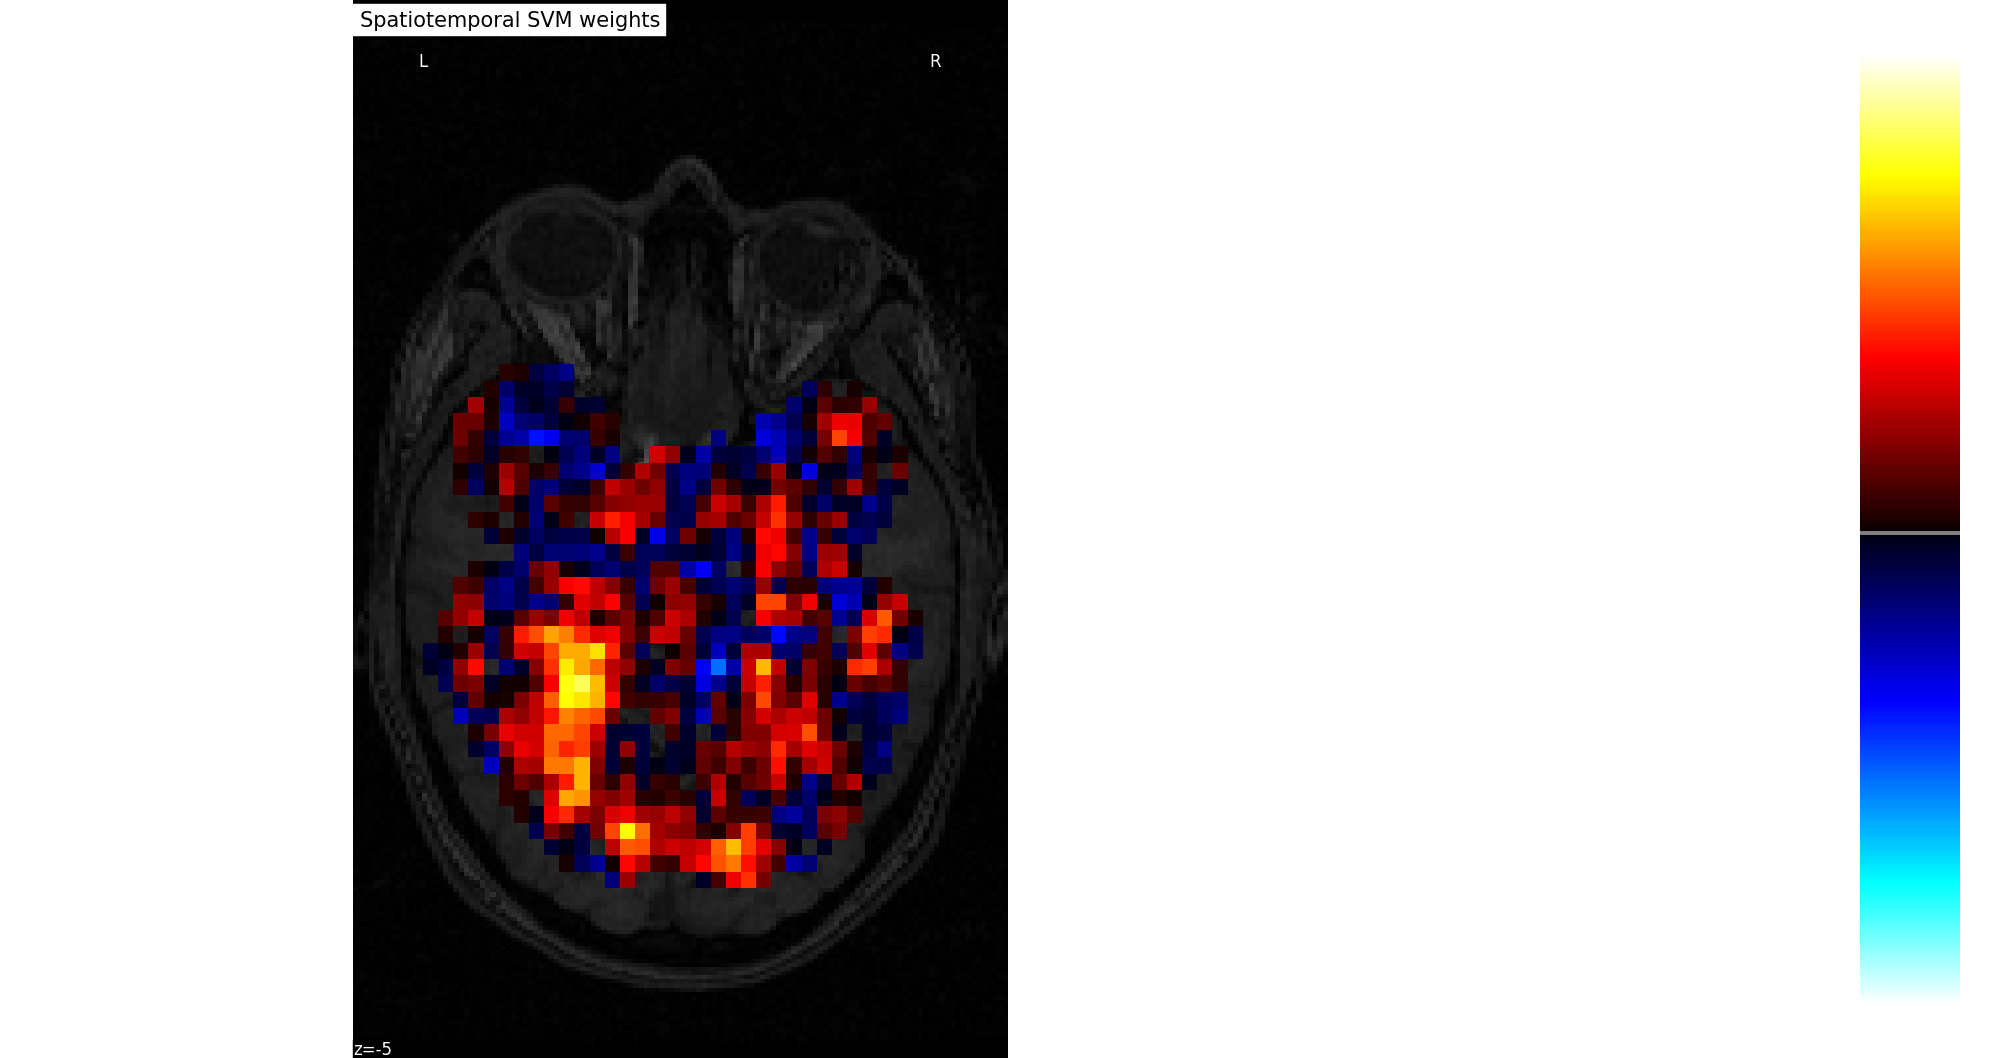
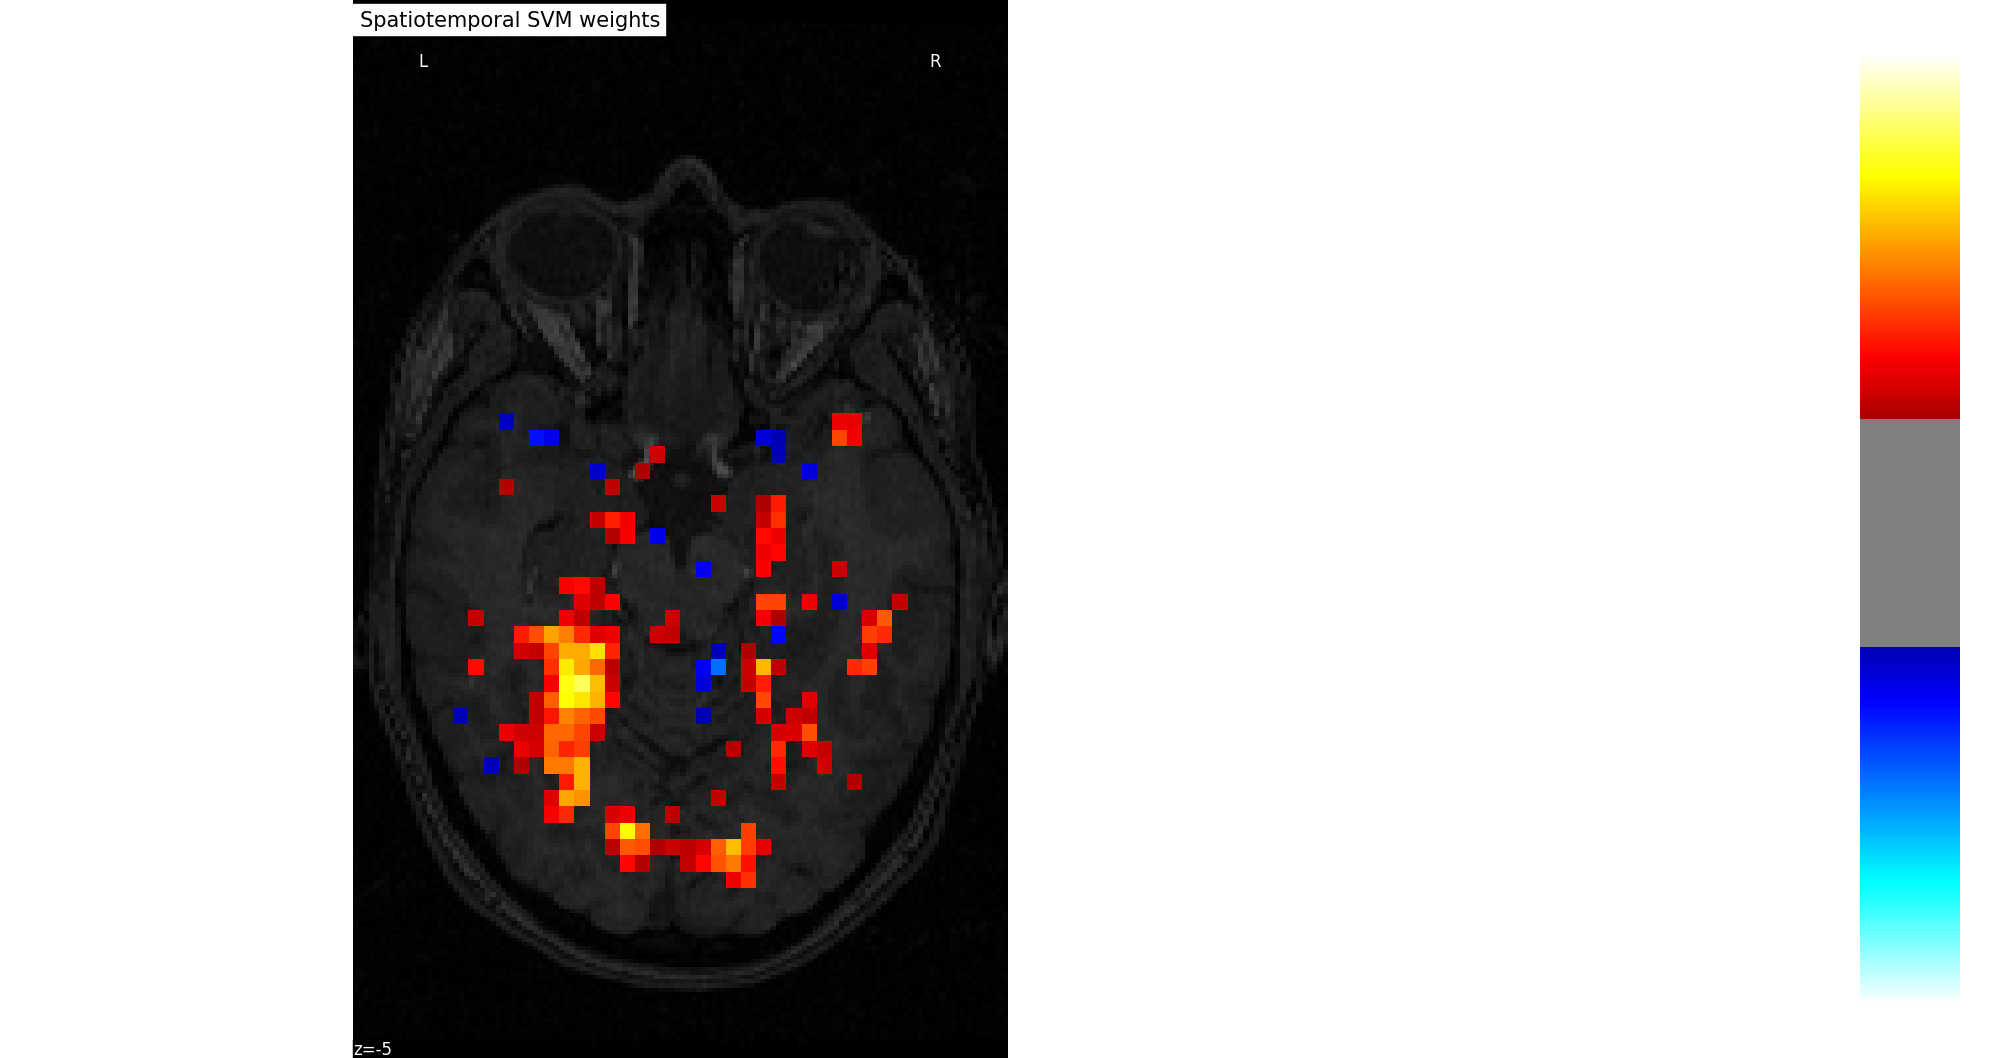
added thresholds and constrained task on activation maps

Changed region(s): [[0.217, 0.3431, 0.465, 0.8422], [0.93, 0.3743, 0.992, 0.6238]]

diff --git a/scripts/activation_maps_haxby_stsvm.py b/scripts/activation_maps_haxby_stsvm.py
@@ -25,6 +25,11 @@ fmri_windows = np.vstack(fmri_windows)
 session_id_onset = np.hstack(session_id_onset)
 conditions = np.hstack(conditions)
 
+mask = np.logical_or(conditions == 'face', conditions == 'house')
+fmri_windows = fmri_windows[mask]
+session_id_onset = session_id_onset[mask]
+conditions = conditions[mask]
+
 train_index = np.where(session_id_onset != 6)
 test_index = np.where(session_id_onset == 6)
 # Split into train and test sets
@@ -42,13 +47,13 @@ fmri_windows_train, fmri_windows_test, anova = de.feature_selection(
 
 svc = SVC(kernel='linear')
 svc.fit(fmri_windows_train, conditions_train)
-svc_coef = -svc.coef_[18]  # 'face' vs. 'house'
+svc_coef = svc.coef_[0]  # 'face' vs. 'house'
 # svc_coef = anova.inverse_transform(svc_coef)
-coef_img = masker.inverse_transform(svc_coef.reshape(10, -1)[1])
+coef_img = masker.inverse_transform(svc_coef.reshape(10, -1)[3])
 coef_map = coef_img.get_data()
-threshold = np.max(np.abs(coef_map)) * 0.05
+threshold = np.percentile(np.abs(coef_map), 98)
 plot_stat_map(coef_img, bg_img=haxby_dataset.anat[0],
               display_mode='z',cut_coords=[-5],
-              title=model+" weights")
+              title=model+" weights", threshold=threshold)
 
 show()

diff --git a/scripts/activation_maps_haxby_log_model.py b/scripts/activation_maps_haxby_log_model.py
@@ -34,20 +34,27 @@ design = np.vstack(design)
 stimuli = np.vstack(stimuli)
 session_id_fmri = np.hstack(session_id_fmri)
 
+"""
+mask = np.logical_or(conditions == 'face', conditions == 'house')
+fmri = fmri[mask]
+session_id_fmri = session_id_fmri[mask]
+conditions = conditions[mask]
+"""
+
 train_index = np.where(session_id_fmri != 6)
 test_index = np.where(session_id_fmri == 6)
 # Split into train and test sets
 fmri_train, fmri_test = (fmri[train_index], fmri[test_index])
-stimuli_train, stimuli_test = (stimuli[train_index],
-                               stimuli[test_index])
+design_train, design_test = design[train_index], design[test_index]
+stimuli_train, stimuli_test = stimuli[train_index], stimuli[test_index]
 
 ridge = RidgeCV()
-ridge.fit(fmri_train, stimuli_train)
+ridge.fit(fmri_train, design_train[:, :3])
 prediction = ridge.predict(fmri_test)
 ridge_coef = - ridge.coef_[1] + ridge.coef_[2]  # 'face' vs. 'house'
 coef_img = masker.inverse_transform(ridge_coef)
 coef_map = coef_img.get_data()
-threshold = np.max(np.abs(coef_map)) * 0.05
+threshold = np.percentile(np.abs(coef_map), 98)
 
 # Plot stat map
 plot_stat_map(coef_img, bg_img=haxby_dataset.anat[0],

diff --git a/scripts/activation_maps_haxby_glm.py b/scripts/activation_maps_haxby_glm.py
@@ -25,6 +25,11 @@ betas = np.vstack(betas)
 session_id_onset = np.hstack(session_id_onset)
 conditions = np.hstack(conditions)
 
+mask = np.logical_or(conditions == 'face', conditions == 'house')
+betas = betas[mask]
+session_id_onset = session_id_onset[mask]
+conditions = conditions[mask]
+
 train_index = np.where(session_id_onset != 6)
 test_index = np.where(session_id_onset == 6)
 # Split into train and test sets
@@ -40,9 +45,9 @@ betas_train, betas_test, anova = de.feature_selection(
 
 betas_test = anova.inverse_transform(betas_test[0])
 """
-coef_img = masker.inverse_transform(betas_test[0] - betas_test[3])
+coef_img = masker.inverse_transform(betas_test[0] - betas_test[1])
 coef_map = coef_img.get_data()
-threshold = np.max(np.abs(coef_map)) * 0.05
+threshold = np.percentile(np.abs(coef_map), 98)
 plot_stat_map(coef_img, bg_img=haxby_dataset.anat[0],
               display_mode='z', cut_coords=[-5],
               title=model+" weights", threshold=threshold)

diff --git a/time_decoding/decoding.py b/time_decoding/decoding.py
@@ -383,7 +383,7 @@ def glm_scoring(betas_train, betas_test, labels_train, labels_test):
 
 def svm_scoring(betas_train, betas_test, labels_train, labels_test):
     """ Fits a logistic regression and scores it for a glm estimation """
-    svc = SVC()
+    svc = SVC(kernel='linear')
     svc.fit(betas_train, labels_train)
     score = svc.score(betas_test, labels_test)
     return score
